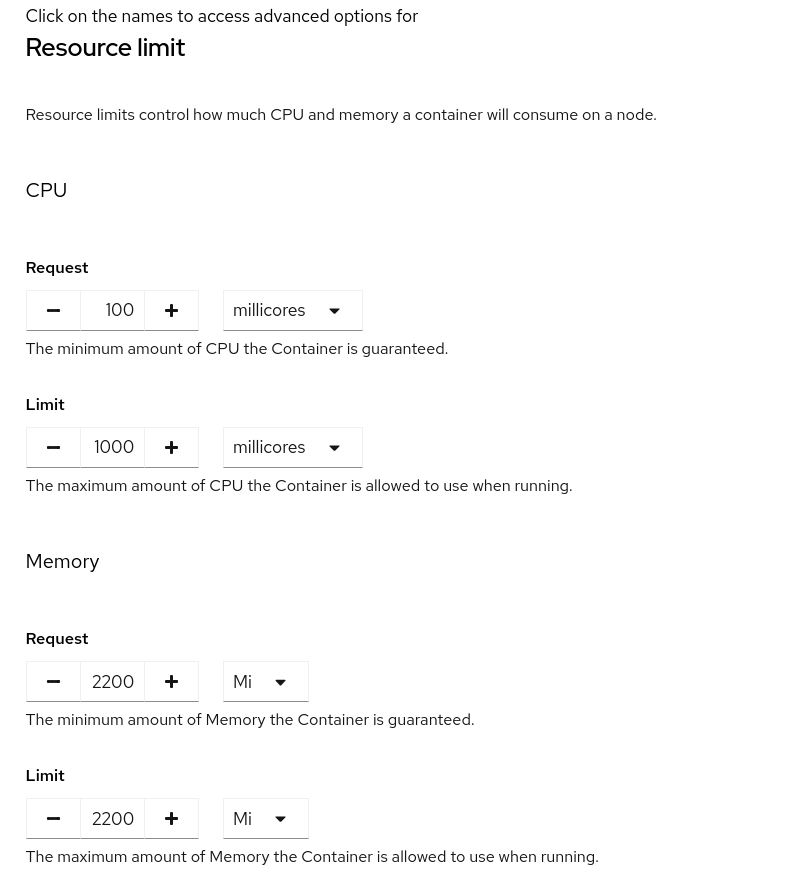
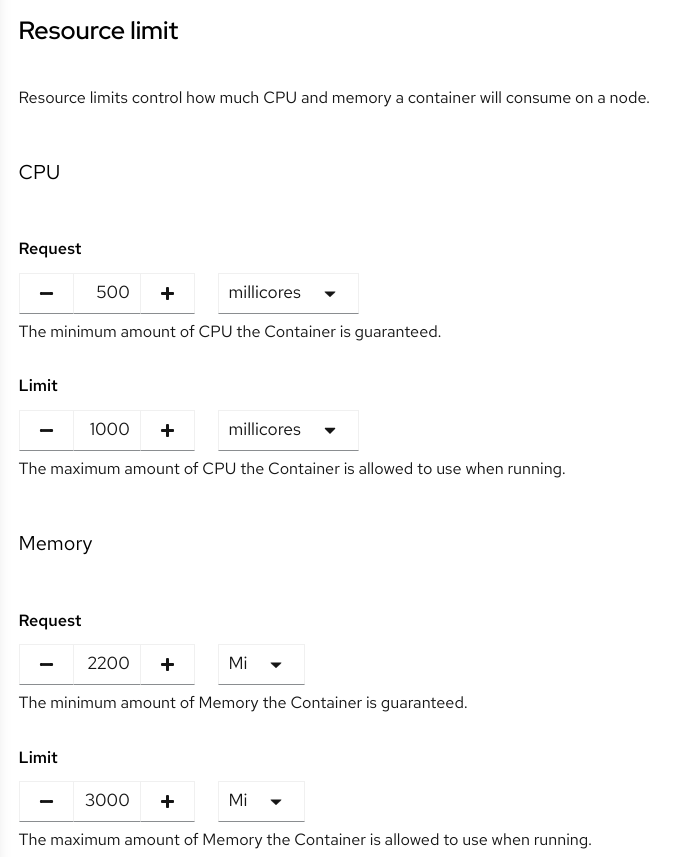
[CI] Publish Documentation for e074b57feaeb471f0ae12417a8c2d376d2a3b490 - e074b57feaeb471f0ae12417a8c2d376d2a3b490 🚀

diff --git a/rhods-od-workshop/2-03-calling-from-application.html b/rhods-od-workshop/2-03-calling-from-application.html
@@ -262,55 +262,6 @@ You can also call the service from elsewhere on your cluster, including your Jup
 </div>
 </div>
 <div class="sect2">
-<h3 id="_configure_a_secure_route"><a class="anchor" href="#_configure_a_secure_route"></a>Configure a Secure Route</h3>
-<div class="paragraph">
-<p>Our application will access device cameras, so it will require a secure, https route.  We need to configure this application to use a secure route for access.</p>
-</div>
-<div class="paragraph">
-<p>We can leave the default resource as <strong>Deployment</strong>, but we need to configure some other options.</p>
-</div>
-<div class="ulist">
-<ul>
-<li>
-<p>Under <strong>Advanced Options</strong>, open the <strong>Show advanced Routing options</strong>.</p>
-</li>
-</ul>
-</div>
-<div class="imageblock">
-<div class="content">
-<img src="_images/s2i/create-app-route.png" alt="alt text" width="800">
-</div>
-</div>
-<div class="ulist">
-<ul>
-<li>
-<p>Set the route options</p>
-<div class="ulist">
-<ul>
-<li>
-<p>Under <strong>Security</strong>, select <strong>Secure Route</strong>.</p>
-</li>
-<li>
-<p>For <strong>TLS termination</strong>, choose <strong>Edge</strong>.</p>
-</li>
-<li>
-<p>For <strong>Insecure traffic</strong>, choose <strong>Redirect</strong>.</p>
-</li>
-<li>
-<p>Leave the other advanced routing fields as they are.</p>
-</li>
-</ul>
-</div>
-</li>
-</ul>
-</div>
-<div class="imageblock">
-<div class="content">
-<img src="_images/s2i/create-app-route-adv.png" alt="alt text" width="800">
-</div>
-</div>
-</div>
-<div class="sect2">
 <h3 id="_configure_the_deployment_environment_variables"><a class="anchor" href="#_configure_the_deployment_environment_variables"></a>Configure the Deployment Environment Variables</h3>
 <div class="paragraph">
 <p>The application needs to know where to send its images for predictions. Earlier, we confirmed the service URL of the <code>object-detection-rest</code> deployment.  We&#8217;ll use that value and add <code>/predictions</code>.  This will tell our front end application where to send the images by setting the variable <code>OBJECT_DETECTION_URL</code> to <code><a href="http://&lt;service-name&gt;:&lt;service-port/predictions" class="bare">http://&lt;service-name&gt;:&lt;service-port/predictions</a></code>.</p>
@@ -369,66 +320,6 @@ If you named the rest services <code>object-detection-rest</code>, this value sh
 <div class="imageblock">
 <div class="content">
 <img src="_images/s2i/create-app-env-var.png" alt="alt text" width="800">
-</div>
-</div>
-</div>
-<div class="sect2">
-<h3 id="_resource_limits"><a class="anchor" href="#_resource_limits"></a>Resource Limits</h3>
-<div class="paragraph">
-<p>This application is much smaller and can be adjusted to very small limits to preserve quota for our larger deployments.</p>
-</div>
-<div class="ulist">
-<ul>
-<li>
-<p>Click on <strong>Resource Limits</strong></p>
-</li>
-</ul>
-</div>
-<div class="imageblock">
-<div class="content">
-<img src="_images/s2i/create-app-limits2.png" alt="alt text">
-</div>
-</div>
-<div class="ulist">
-<ul>
-<li>
-<p>Enter in the following values</p>
-<div class="ulist">
-<ul>
-<li>
-<p>CPU</p>
-<div class="ulist">
-<ul>
-<li>
-<p>Request: <code>100 millicores</code></p>
-</li>
-<li>
-<p>Limit: <code>200 millicores</code> (or <code>1 cores</code>)</p>
-</li>
-</ul>
-</div>
-</li>
-<li>
-<p>Memory</p>
-<div class="ulist">
-<ul>
-<li>
-<p>Request: <code>50 Mi</code></p>
-</li>
-<li>
-<p>Limit: <code>300 Mi</code></p>
-</li>
-</ul>
-</div>
-</li>
-</ul>
-</div>
-</li>
-</ul>
-</div>
-<div class="imageblock">
-<div class="content">
-<img src="_images/s2i/create-app-limits-form2.png" alt="Create app limits form" width="600">
 </div>
 </div>
 </div>

diff --git a/rhods-od-workshop/3-05-kakfa-consumer.html b/rhods-od-workshop/3-05-kakfa-consumer.html
@@ -268,7 +268,7 @@
 <p>Request: <code>2200 Mi</code></p>
 </li>
 <li>
-<p>Limit: <code>2200 Mi</code></p>
+<p>Limit: <code>3000 Mi</code></p>
 </li>
 </ul>
 </div>
@@ -280,7 +280,7 @@
 </div>
 <div class="imageblock">
 <div class="content">
-<img src="_images/s2i/create-app-limits-form3.png" alt="Create app limits form" width="600">
+<img src="_images/s2i/create-app-limits-form.png" alt="Create app limits form" width="600">
 </div>
 </div>
 </div>

diff --git a/rhods-od-workshop/2-01-deploy-s2i.html b/rhods-od-workshop/2-01-deploy-s2i.html
@@ -331,7 +331,7 @@
 <div class="ulist">
 <ul>
 <li>
-<p>Request: <code>100 millicores</code></p>
+<p>Request: <code>500 millicores</code></p>
 </li>
 <li>
 <p>Limit: <code>1000 millicores</code> (or <code>1 cores</code>)</p>
@@ -347,7 +347,7 @@
 <p>Request: <code>2200 Mi</code></p>
 </li>
 <li>
-<p>Limit: <code>2200 Mi</code></p>
+<p>Limit: <code>3000 Mi</code></p>
 </li>
 </ul>
 </div>
